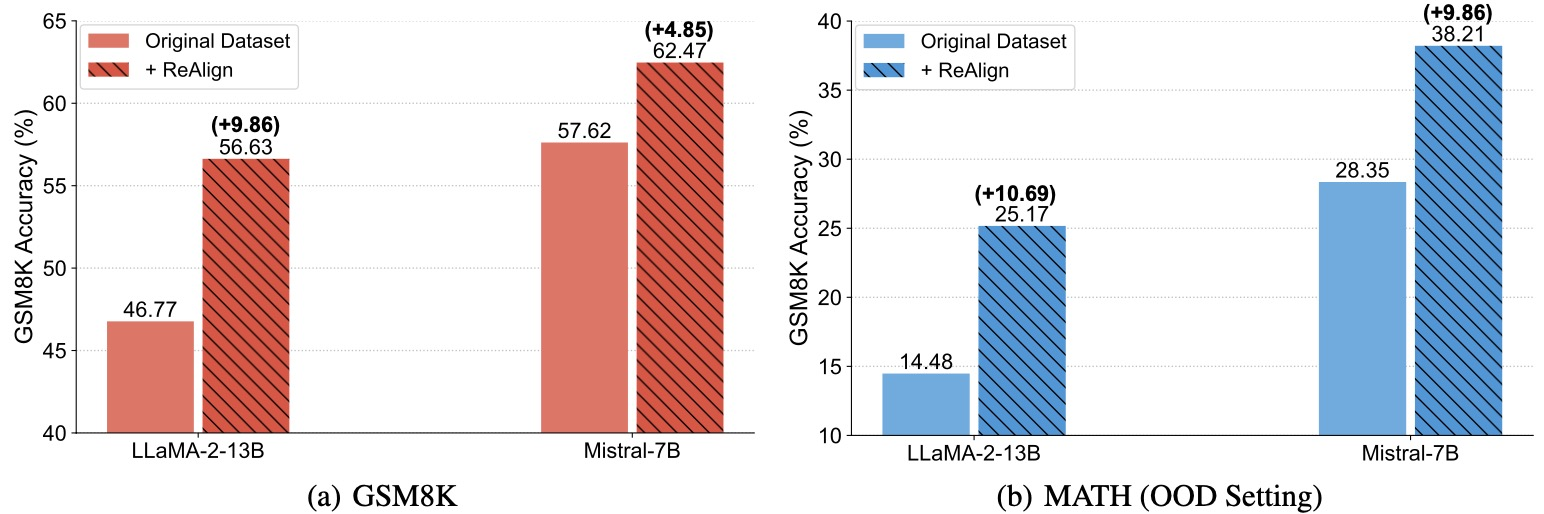
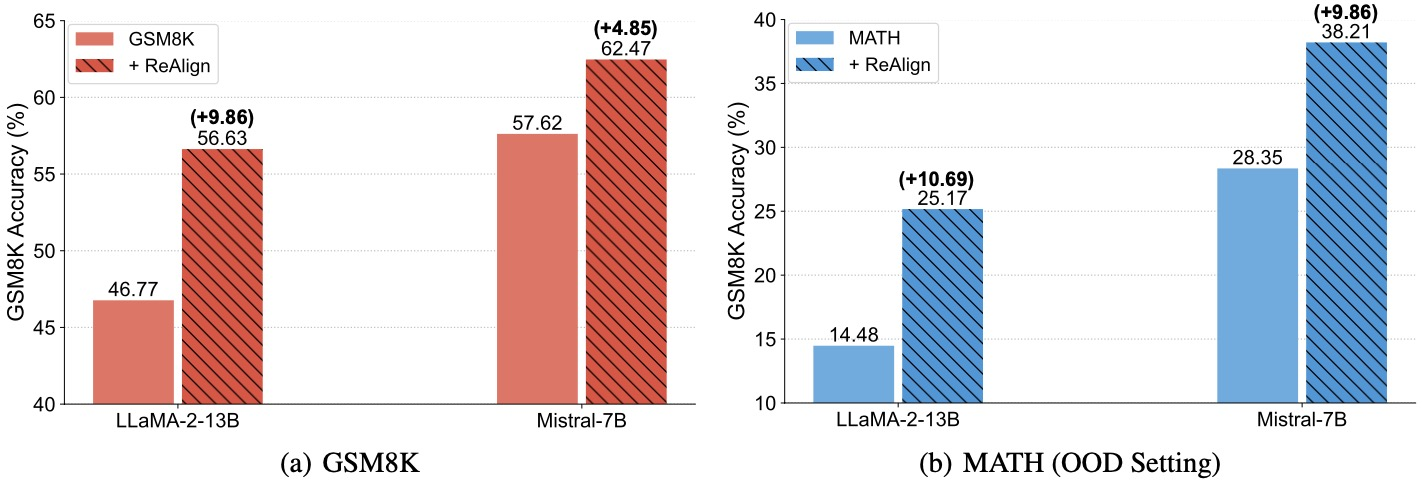
update

diff --git a/index.html b/index.html
@@ -187,7 +187,7 @@ Through this collaborative synergy, we expect the generated instruction data to 
 <figure>
             <img src="figs/Math_Results.jpg" width=100% alt="Description of first image"/>
   <figcaption>
-    The accuracy of the GSM8K test set for LLaMA-2-13B and Mistral-7B models fine-tuned on the training set of GSM8K and MATH with and without <b>ReAlign</b>. (a): Training on GSM8K. (b): Training on MATH and testing on GSM8K (Out-of-Distribution Setting).
+    The accuracy of the GSM8K test set for LLaMA-2-13B and Mistral-7B models fine-tuned on the training set of GSM8K and MATH with and without <b>ReAlign</b>. (a): Training and testing on GSM8K. (b): Training on MATH and testing on GSM8K (Out-of-Distribution Setting).
     </figcaption>
 </figure>
                   </div>

diff --git a/README.md b/README.md
@@ -34,7 +34,7 @@ Through this collaborative synergy, we expect the generated instruction data to 
 
 
 <div align=center><img src="./figs/Math_Results.jpg" style="zoom: 25%;" /></div>
-<center>The accuracy of the GSM8K test set for LLaMA-2-13B and Mistral-7B models fine-tuned on the training set of GSM8K and MATH with and without ReAlign. (a): Training on GSM8K. (b): Training on MATH and testing on GSM8K (Out-of-Distribution Setting).</center>
+<center>The accuracy of the GSM8K test set for LLaMA-2-13B and Mistral-7B models fine-tuned on the training set of GSM8K and MATH with and without ReAlign. (a): Training and testing on GSM8K. (b): Training on MATH and testing on GSM8K (Out-of-Distribution Setting).</center>
 
 
 <div align=center><img src="./figs/overall_figs.jpg" style="zoom: 25%;" /></div>
